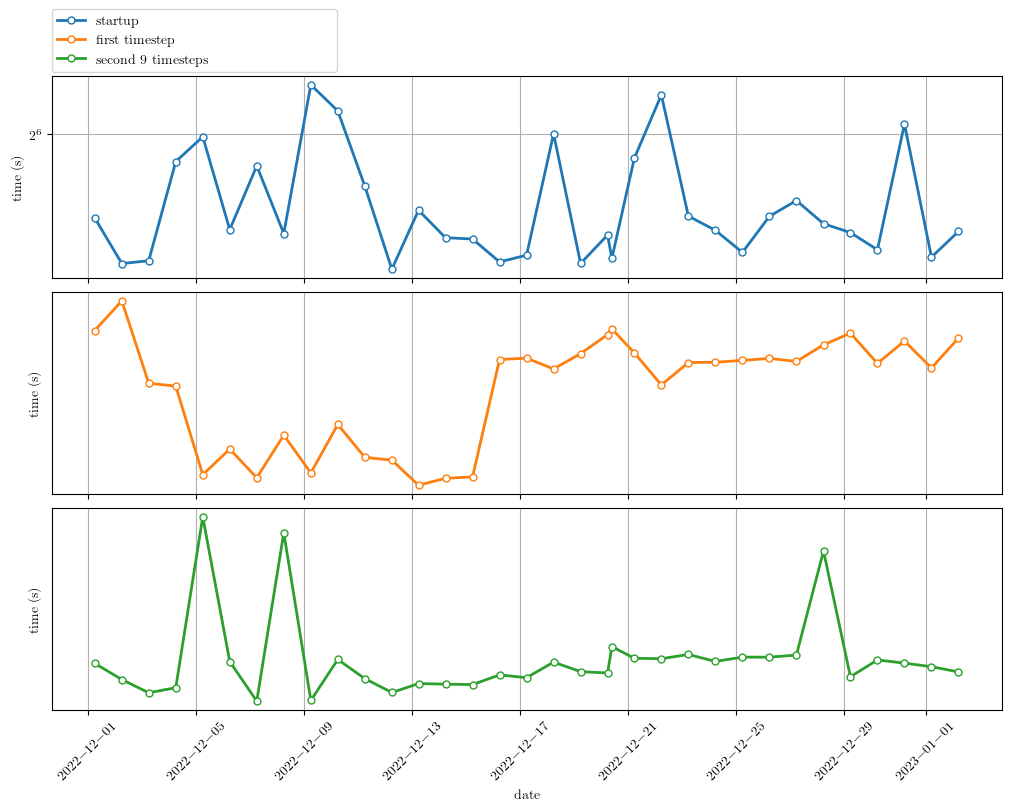
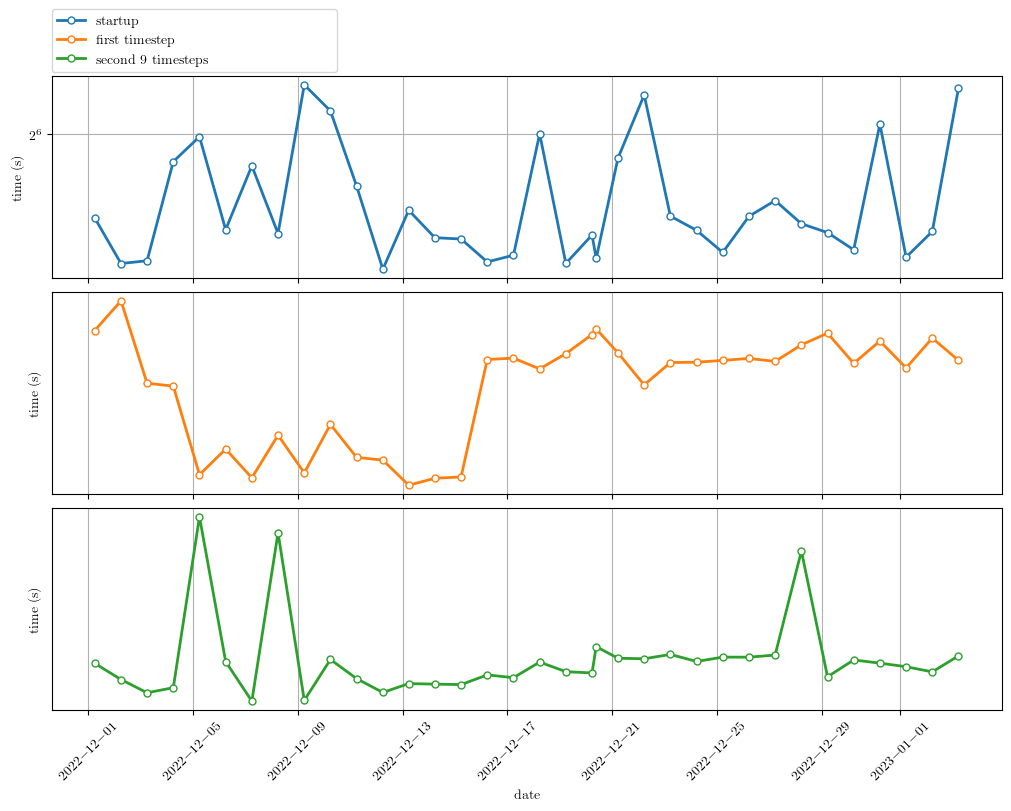
Automatic timing summary commit: lassen708 2023-01-03 05:01

diff --git a/README.md b/README.md
@@ -1,4 +1,4 @@
-Timings last ran on: 2023.01.02
+Timings last ran on: 2023.01.03
 
 # Status of production timings
 
